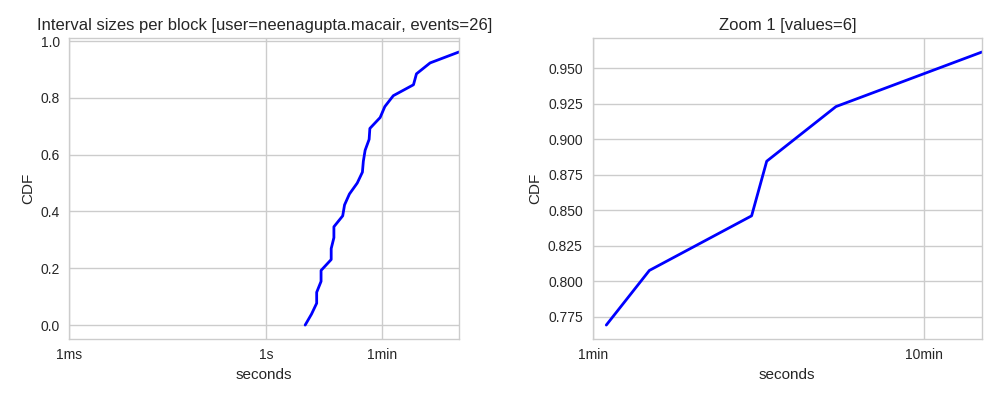
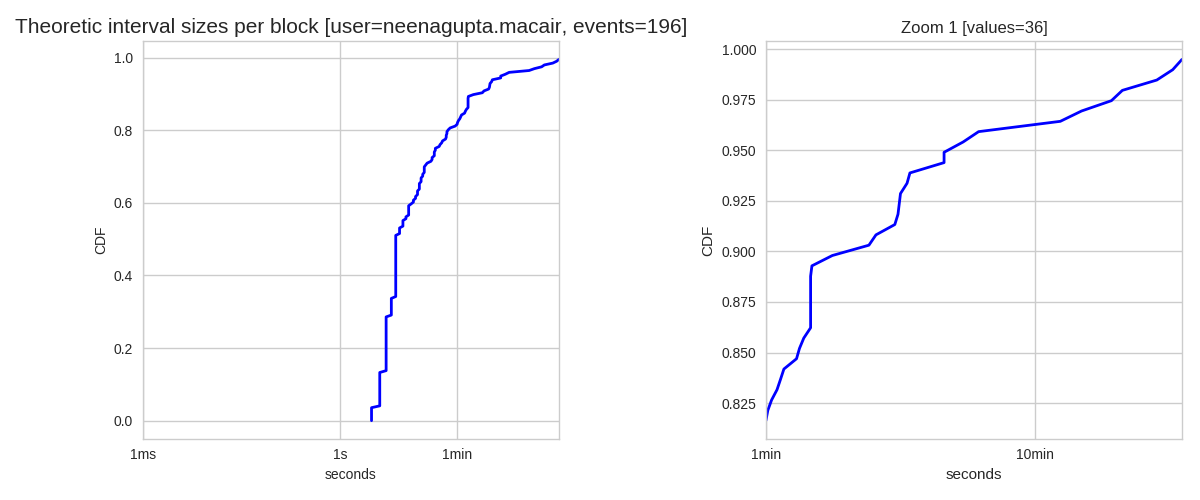
correctly plotting theoretic count cdf for one user

diff --git a/inter_event_time_theoretical_count.py b/inter_event_time_theoretical_count.py
@@ -109,7 +109,7 @@ def calculate_average_periodicity(interval_dict):
         for iat_total in distrib_dict.keys():
             if iat_total != 'total' and \
                distrib_dict['total'] > 5 and \
-               (distrib_dict[iat_total]/float(distrib_dict['total'])) > 0.5:
+               (distrib_dict[iat_total]/float(distrib_dict['total'])) > 0.40:
 
                 if iat_total != 0:
 
@@ -122,12 +122,12 @@ def calculate_average_periodicity(interval_dict):
                     theoretic_count.append(theo_count)
                     real_count.append(distrib_dict[iat_total])
 
-                    print '***'
-                    print 'block time ' + str(block_time)
-                    print 'interval that appears more than 50% of times ' + str(iat_total)
-                    print 'theoretic periodicity ' + str(theo_count)
-                    print 'real periodicity ' + str(distrib_dict[iat_total])
-                    print 'total number of intervals ' + str(distrib_dict['total'])
+                    #print '***'
+                    #print 'block time ' + str(block_time)
+                    #print 'interval that appears more than 40% of times ' + str(iat_total)
+                    #print 'theoretic periodicity ' + str(theo_count)
+                    #print 'real periodicity ' + str(distrib_dict[iat_total])
+                    #print 'total number of intervals ' + str(distrib_dict['total'])
 
     #contains values for a certain url
     return theoretic_count, real_count
@@ -143,7 +143,8 @@ def get_interval_distribution(key, interval_list):
             iat = (timsts[i+1]-timsts[i]).total_seconds()
 
             #round interval
-            iat = round(iat)
+            #iat = round(iat)
+            iat = get_approximation(iat)
 
             if iat not in interval_dist.keys():
                 interval_dist[iat] = 1
@@ -164,6 +165,109 @@ def round(value):
 
     return value
 
+def get_approximation(value):
+
+    if value <= 5:
+        return round(value)
+    #10 seconds gap
+    elif value > 5 and value <= 15:
+        return 10
+    elif value > 15 and value <= 25:
+        return 20
+    elif value >25 and value <= 35:
+        return 30
+    elif value > 35 and value <= 45:
+        return 40
+    #30 seconds gap
+    elif value > 45 and value <= 75:
+        return 60
+    elif value > 75 and value <= 105:
+        return 90
+    elif value > 105 and value <=135:
+        return 120
+    elif value > 135 and value <= 165:
+        return 150
+    elif value > 165 and value <= 195:
+        return 180
+    elif value > 195 and value <= 225:
+        return 210
+    elif value > 225 and value <= 270:
+        return 240
+    #60 seconds gap
+    elif value > 270 and value <= 330:
+        return 300
+    elif value > 330 and value <= 390:
+        return 360
+    elif value > 390 and value <= 450:
+        return 420
+    elif value > 450 and value <= 510:
+        return 480
+    elif value > 510 and value <= 570:
+        return 540
+    elif value > 570 and value <= 675:
+        return 600
+    #150 seconds gaps -> 2.5 min
+    elif value > 675 and value <= 825:
+        return 750
+    elif value > 825 and value <= 975:
+        return 900
+    elif value > 975 and value <= 1125:
+        return 1050
+    elif value > 1125 and value <= 1350:
+        return 1200 #20 min
+    #300 seconds gaps -> 5 min
+    elif value > 1350 and value <= 1650:
+        return 1500
+    elif value > 1650 and value <= 1950:
+        return 1800
+    elif value > 1950 and value <= 2250:
+        return 2100
+    elif value > 2250 and value <= 2550:
+        return 2400 # 40 min
+    elif value > 2550 and value <= 2850:
+        return 2700
+    elif value > 2850 and value <= 3150:
+        return 3000
+    #900 seconds gaps -> 15 min gaps
+    elif value > 3150 and value <= 4050:
+        return 3600 # 1 hr
+    elif value > 4050 and value <= 4950:
+        return 4500
+    elif value > 4950 and value <= 5850:
+        return 5400
+    elif value > 5850 and value <= 6750:
+        return 6300
+    elif value > 6750 and value <= 8100:
+        return 7200 #2 hrs
+    #1800 seconds gaps -> 30 min
+    elif value > 8100 and value <= 9900:
+        return 9000
+    elif value > 9900 and value <= 11700:
+        return 10800 #3 hrs
+    elif value > 11700 and value <= 13500:
+        return 12600
+    elif value > 13500 and value <= 15300:
+        return 14400 #4 hrs
+    elif value > 15300 and value <= 17100:
+        return 16200
+    elif value > 17100 and value <= 18900:
+        return 18000 #5 hrs
+    #3600 seconds intervals
+    elif value > 18900 and value <= 22500:
+        return 21600
+    elif value > 22500 and value <= 26100:
+        return 25200
+    elif value > 26100 and value <= 29700:
+        return 28800
+    elif value > 29700 and value <= 33300:
+        return 32400
+    elif value > 33300 and value <= 36900:
+        return 36000 #10 hrs
+    else:
+        return 43200 #12 hrs
+    
+
+
 def analyze_user_device(user_dev):
 
     if user_dev != 'neenagupta.macair':#'clifford.mainlaptop':
@@ -177,17 +281,16 @@ def plot_counts_ditr(theoretic_counts, real_counts, username):
     merged_theoretic_counts = list(itertools.chain(*theoretic_counts))
 
     #print merged_theoretic_counts
-    fig, (ax1, ax2) = plt.subplots(1, 2, figsize=(10, 4))
+    fig, (ax1, ax2) = plt.subplots(1, 2, figsize=(12, 5))
     (x,y) = datautils.aecdf(merged_theoretic_counts)
 
     ax1.plot(x,y, '-b', lw=2)
-    ax1.set_title('Interval sizes per block [user=%s, events=%d]'%(username, len(x)))  \
-
-    ax1.set_ylabel('CDF')
+    ax1.set_title('Theoretic interval sizes per block [user=%s, events=%d]'%(username, len(x)), fontsize = 15)
+    ax1.set_ylabel('CDF', fontsize = 10)
     ax1.set_xscale('log')
-    ax1.set_xlabel('seconds')
+    ax1.set_xlabel('seconds', fontsize = 10)
     ax1.set_xticks([0.001,1,60,3600,24*3600])
-    ax1.set_xticklabels(['1ms','1s','1min','1h','1day'])
+    ax1.set_xticklabels(['1ms','1s','1min','1h','1day'], fontsize = 10)
     ax1.set_xlim(0.001,max(merged_theoretic_counts))
 
     xp = filter(lambda v : v>=60, x)
